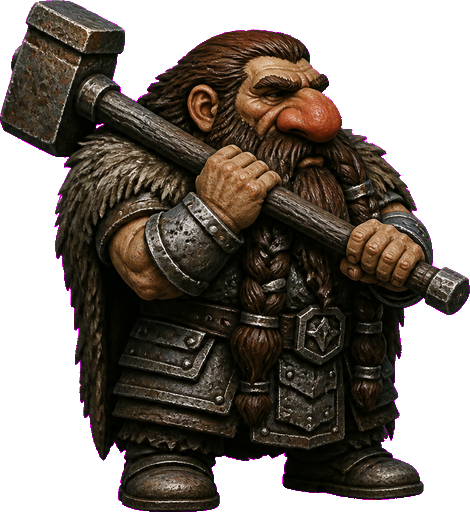
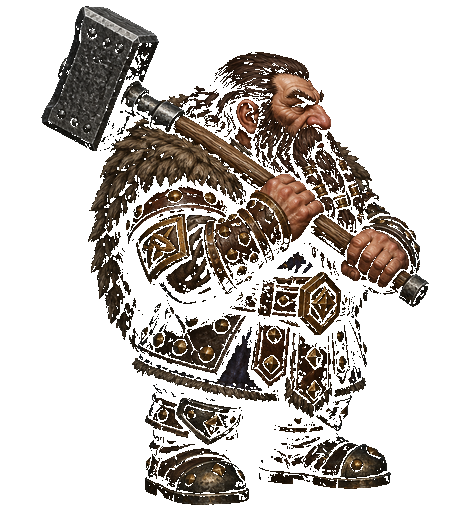
Bind Limner-signed title-law Macar idle (ASSET_VER 81). (#170)
Nick ordered in-game dwarves to match title 8c7e82f1. KEEP p2b idle superseded. Walk/atk sheets unchanged.

diff --git a/src/ui/Ch1RubbleLoad.test.js b/src/ui/Ch1RubbleLoad.test.js
@@ -45,7 +45,7 @@ assert(!/else if\(okTex\)\{/.test(html),
   'generated TEX diamonds are not a first-frame floor/wall fallback');
 assert(/tile_floor_mine\.png\?v=60/.test(html) && /tile_wall_worked\.png\?v=60/.test(html),
   'mine floor and worked wall are preloaded before first present');
-assert(/ASSET_VER='80'/.test(html), 'asset cache-bust matches punched living-Macar sheets');
+assert(/ASSET_VER='81'/.test(html), 'asset cache-bust matches punched living-Macar sheets');
 assert(/function scatterBurialRubble\(/.test(html) && /fallen:1/.test(html) && /k:'dust'/.test(html),
   'cave-in entry scatters extra timber, stone, and dust around the burial');
 assert(/function drawFallenBeam\(/.test(html) && /function drawFloorDust\(/.test(html),

diff --git a/src/combat/ElvenkindBoots.test.js b/src/combat/ElvenkindBoots.test.js
@@ -23,7 +23,7 @@ function extractFn(name){
   return m[0];
 }
 
-assert(/ASSET_VER='80'/.test(html), 'ASSET_VER is unchanged');
+assert(/ASSET_VER='81'/.test(html), 'ASSET_VER is unchanged');
 assert(/function wornMoveMul\(/.test(html) && /function moveStep\(/.test(html),
   'wornMoveMul and moveStep exist (extract of move())');
 assert(/function wearingElvenkind\(/.test(html), 'shared wearingElvenkind helper exists');

diff --git a/src/combat/UseMagicItem.test.js b/src/combat/UseMagicItem.test.js
@@ -48,7 +48,7 @@ assert(/nocked|stays packed/.test(useFn), 'plus-shot ammo use is still nock/read
 assert(/EquipmentSlots\.isEquippable\(it\)/.test(useFn),
   'wearable misc (Displacement) dons through isEquippable before the generic buff+heal');
 
-assert(/ASSET_VER='80'/.test(html), 'ASSET_VER is unchanged');
+assert(/ASSET_VER='81'/.test(html), 'ASSET_VER is unchanged');
 
 const ctx={
   G:{equipped:{}},

diff --git a/index.html b/index.html
@@ -348,7 +348,7 @@ const FONT_QUOTE='"Cormorant Garamond",Palatino,Georgia,serif';
 
 /* ---------------------------- painted sprites (Baldur's Gate isometric) ---------------------------- */
 const SPR={};
-const ASSET_VER='80';
+const ASSET_VER='81';
 let SPLASH_STATE='loading';
 function assetUrl(src){
   const u=src+(src.indexOf('?')>=0?'&':'?')+'v='+ASSET_VER;

diff --git a/src/combat/LeftoverMagic.test.js b/src/combat/LeftoverMagic.test.js
@@ -26,7 +26,7 @@ function extractFn(name){
   return m[0];
 }
 
-assert(/ASSET_VER='80'/.test(html), 'ASSET_VER is unchanged');
+assert(/ASSET_VER='81'/.test(html), 'ASSET_VER is unchanged');
 assert(!/id:'vorpal'|id:'bag_of_holding'|id:'arrow_of_slaying'|id:'javelin_of_lightning'/.test(html),
   'no invented leftover-magic item ids');
 
